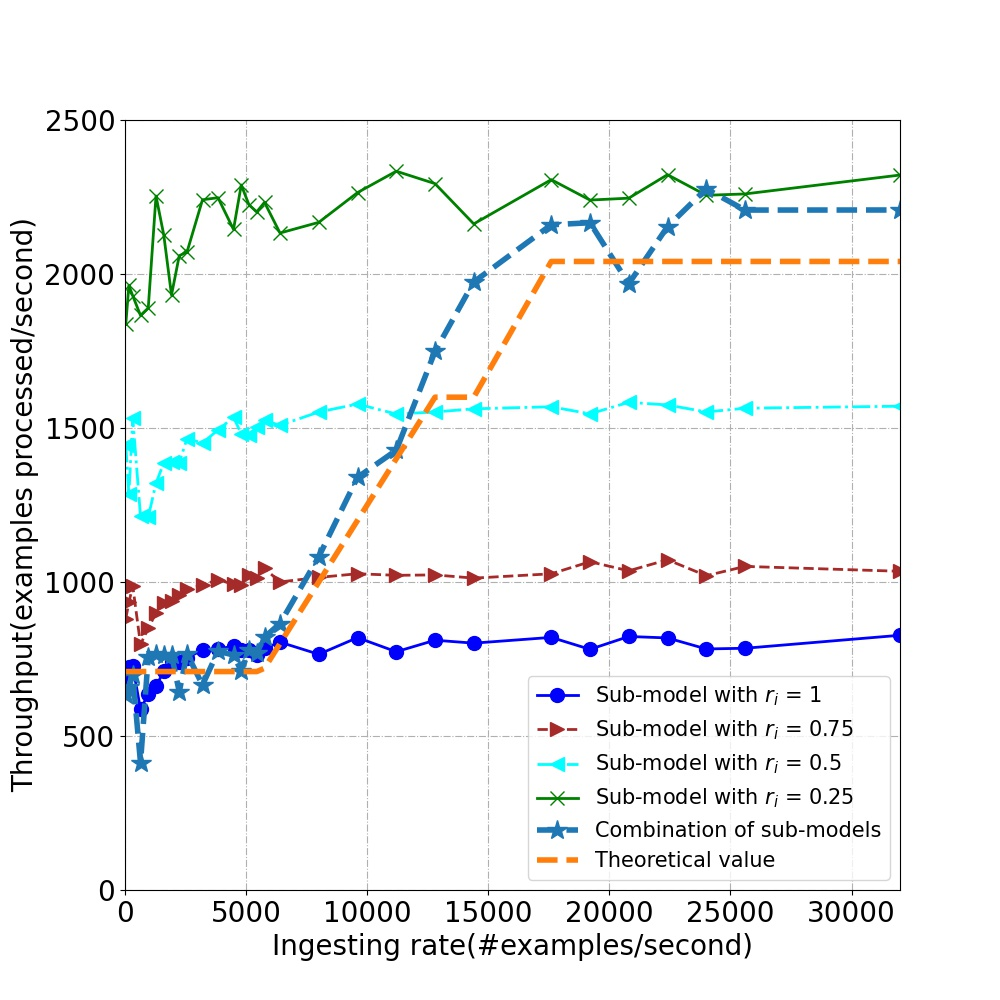
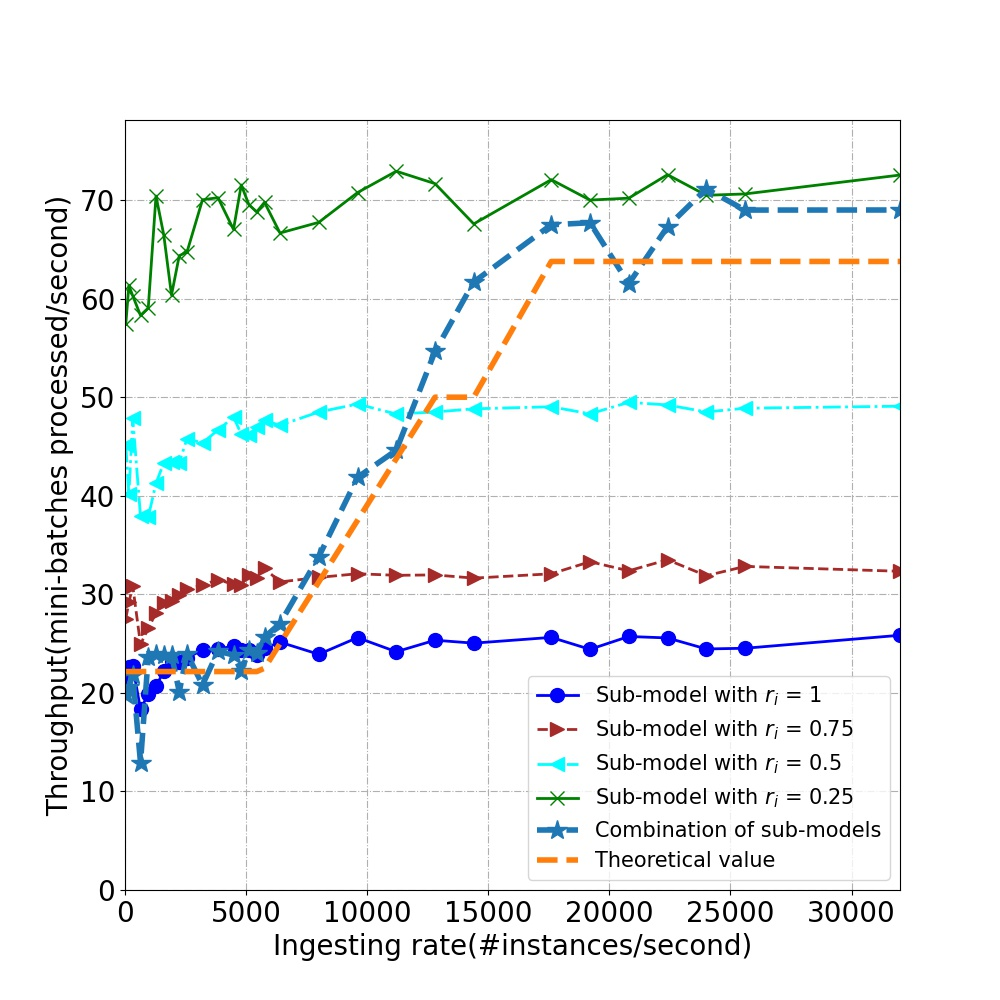
update col num

Changed region(s): [[0.0, 0.186, 0.124, 0.806], [0.279, 0.93, 0.744, 0.961], [0.062, 0.093, 0.124, 0.124]]

diff --git a/singa_easy/modules/mod_modelslicing/experiments/real_experiments/batchsize32_warmup/throughput_plot.py b/singa_easy/modules/mod_modelslicing/experiments/real_experiments/batchsize32_warmup/throughput_plot.py
@@ -53,7 +53,6 @@ def drawBasic(tlist, x, slicerate):
      return y, label, pots
 
 
-
 x = [1, 5, 10, 20, 30, 40, 50, 60, 70, 80, 100, 120, 140, 150, 160, 170, 180, 200, 250, 300, 350, 400, 450, 550, 600, 650, 700, 750, 800, 1000]
 x = [ele*32 for ele in x]
 x = numpy.array(x)
@@ -63,13 +62,14 @@ print(y)
 
 fig=plt.figure(figsize=(10, 10))
 ax=fig.add_subplot(111)
-ax.axis([0, 1000*32, 0, 2500])
+ax.axis([0, 1000*32, 0, 2500/32])
 
 line_sym = ["-", "--", "-.", "-"]
 pot_sym = ["o", ">", "<", "x"]
 colors = ['blue', 'brown', 'aqua', 'green']
 
 for i in range(len(y)):
+     y[i] = [ele/32 for ele in y[i]]
      ax.plot(x, y[i], line_sym[i], marker=pot_sym[i], ms=10, label=label[i], linewidth=2, color=colors[i])
 
 
@@ -87,15 +87,17 @@ y_idealy = [709.2198581560284, 709.2198581560284, 709.2198581560284, 709.2198581
 # y_schef[20] += 100
 
 y_real_experiment = [633.0488366910487, 660.2020663739888, 696.9070444809888, 413.58714568077846, 757.9607054411246, 767.1975325229297, 763.8781468089422, 763.4920521873797, 643.6349107329457, 767.1107790111308, 665.6662151396764, 774.8611271250163, 763.3099205024894, 710.7785972349673, 779.1044616704534, 770.164707197363, 820.9722173161322, 865.2086862684831, 1081.8927113194084, 1339.7172773808425, 1427.7056211403021, 1748.4424234241985, 1974.104147038498, 2159.880743685082, 2166.387515185857, 1968.3063635706058, 2153.703896139617, 2276.373651213354, 2207.590246106145, 2207.8315041726605]
+y_real_experiment = [ele/32 for ele in y_real_experiment]
+y_idealy = [ele/32 for ele in y_idealy]
 ax.plot(x, y_real_experiment, "--", marker='*', ms=15, label="Combination of sub-models", linewidth=4)
-ax.plot(x, y_idealy, "--",label="Theoretical value", linewidth=4)
+ax.plot(x, y_idealy, "--", label="Theoretical value", linewidth=4)
 
 
 plt.legend(fontsize=15)
 plt.xticks(fontsize=20)
 plt.yticks(fontsize=20)
-ax.set_xlabel('Ingesting rate(#examples/second)', fontsize=20)
-ax.set_ylabel('Throughput(examples processed/second)', fontsize=20)
+ax.set_xlabel('Ingesting rate(#instances/second)', fontsize=20)
+ax.set_ylabel('Throughput(mini-batches processed/second)', fontsize=20)
 plt.grid(linestyle='-.')
 plt.savefig('./throughput.jpg')
 plt.show()

diff --git a/singa_easy/modules/mod_modelslicing/experiments/real_experiments/batchsize32_warmup/submodel_propertion.py b/singa_easy/modules/mod_modelslicing/experiments/real_experiments/batchsize32_warmup/submodel_propertion.py
@@ -7,8 +7,8 @@ scheduler_map = \
      1280: [1280, 0, 0, 0], 1600: [1600, 0, 0, 0], 1920: [1920, 0, 0, 0], 2240: [2240, 0, 0, 0], 2560: [2560, 0, 0, 0],
      3200: [3200, 0, 0, 0], 3840: [3840, 0, 0, 0], 4480: [4480, 0, 0, 0], 4800: [4800, 0, 0, 0], 5120: [5120, 0, 0, 0],
      5440: [5440, 0, 0, 0], 5760: [5586, 0, 174, 0], 6400: [4937, 0, 1463, 0], 8000: [3314, 0, 4686, 0],
-     9600: [1691, 0, 7909, 0], 11200: [68, 1, 11131, 0], 12800: [0, 0, 7854, 4946], 17600: [0, 0, 1, 16325],
-     19200: [0, 0, 1, 16325]}
+     9600: [1691, 0, 7909, 0], 11200: [68, 1, 11131, 0], 12800: [0, 0, 7854, 4946], 17600: [0, 0, 1, 17600],
+     19200: [0, 0, 1, 19200]}
 
 
 name_list = list(scheduler_map.keys()).sort()
@@ -17,7 +17,7 @@ name_list = list(scheduler_map.keys()).sort()
 
 fig = plt.figure(figsize=(11, 10))
 ax = fig.add_subplot(111)
-ax.axis([0, len(list(scheduler_map.keys())), 0, 17500])
+ax.axis([0, len(list(scheduler_map.keys())), 0, 620])
 
 y025 = []
 y5 = []
@@ -25,10 +25,10 @@ y75 = []
 y100 = []
 
 for key in scheduler_map:
-    y025.append(scheduler_map[key][3])
-    y5.append(scheduler_map[key][2])
-    y75.append(scheduler_map[key][1])
-    y100.append(scheduler_map[key][0])
+    y025.append(scheduler_map[key][3]/32)
+    y5.append(scheduler_map[key][2]/32)
+    y75.append(scheduler_map[key][1]/32)
+    y100.append(scheduler_map[key][0]/32)
 
 
 colors = ['lightskyblue', 'brown', 'aqua', 'plum']
@@ -42,8 +42,8 @@ plt.legend(fontsize=20)
 plt.xticks(fontsize=20)
 plt.yticks(fontsize=20)
 
-ax.set_xlabel('Ingesting rate(#examples/second)', fontsize=20)
-ax.set_ylabel('#Examples', fontsize=20)
+ax.set_xlabel('Ingesting rate(#instances/second)', fontsize=20)
+ax.set_ylabel('# Mini-batches', fontsize=20)
 
 plt.grid(linestyle='-.')
 plt.savefig('./sub_model_proportion.jpg')

diff --git a/singa_easy/modules/mod_modelslicing/experiments/real_experiments/batchsize32_warmup/average_time_batch.py b/singa_easy/modules/mod_modelslicing/experiments/real_experiments/batchsize32_warmup/average_time_batch.py
@@ -45,7 +45,7 @@ def drawBasic(tlist, x, slicerate):
 
      for k in range(len(tlist)):
 
-          label.append('sub-model with $r_i$ = ' + str(slicerate[k]) + ", $t_i=$" + str(tlist[k]) + "$s$")
+          label.append('Sub-model with $r_i$ = ' + str(slicerate[k]))
 
           tmp = []
           for i in range(len(x)):
@@ -65,7 +65,7 @@ y, label, pots = drawBasic([0.0126, 0.0071, 0.00315, 0.00079], x, [1, 0.75, 0.5,
 
 fig=plt.figure(figsize=(10, 10))
 ax=fig.add_subplot(111)
-ax.axis([0, 800*32, 0, 55])
+ax.axis([0, 1000*32, 10, 55])
 
 
 line_sym = ["-", "--", "-.", "-"]
@@ -80,8 +80,8 @@ for i in range(len(y)):
 plt.legend(fontsize=15)
 plt.xticks(fontsize=20)
 plt.yticks(fontsize=20)
-ax.set_xlabel('Ingesting rate(#examples/second)', fontsize=20)
-ax.set_ylabel('ProcessTimeOfABatch(millisecond)', fontsize=20)
+ax.set_xlabel('Ingesting rate(#instances/second)', fontsize=20)
+ax.set_ylabel('Inference time per mini-batch(millisecond)', fontsize=20)
 plt.grid(linestyle='-.')
 plt.savefig('./average_time_batch.jpg')
 plt.show()

diff --git a/singa_easy/modules/mod_modelslicing/experiments/scheduler.py b/singa_easy/modules/mod_modelslicing/experiments/scheduler.py
@@ -162,7 +162,7 @@ if __name__ == '__main__':
     # testAny([0.95, 0.8, 0.75], [4, 2, 1])
     # 30 items
     N_list = [1, 5, 10, 20, 30, 40, 50, 60, 70, 80, 100, 120, 140, 150, 160, 170, 180, 200, 250, 300, 350, 400, 450, 550, 600, 650, 700, 750, 800, 1000]
-    N_list = [ele for ele in N_list]
+    # N_list = [200, 250, 300, 350, 400, 450,]
 
     effective_speed_list = []
     throughput_list = []
@@ -185,7 +185,7 @@ if __name__ == '__main__':
             res, combs = testAny(ps,
                                  times,
                                  N=N,
-                                 D=8)
+                                 D=0.1)
             effecAccuracy.append(res)
             ndict[N] = [int(ele) for ele in combs.tolist()]
             print("When N is", N, " testAny's result:", res, combs)
@@ -232,6 +232,6 @@ if __name__ == '__main__':
     print(used_N_list)
     print(throughput_list)
     print(ndict)
-    # print(delay_list)
-    # print(delay_list)
+    print(delay_list)
+    print(delay_list)
 

diff --git a/singa_easy/modules/mod_modelslicing/experiments/real_experiments/batchsize32_warmup/effitive_accuracy_plot.py b/singa_easy/modules/mod_modelslicing/experiments/real_experiments/batchsize32_warmup/effitive_accuracy_plot.py
@@ -59,7 +59,7 @@ ax.plot(x, ySch, "--", marker='*', ms=12, label="Combination of sub-models", lin
 plt.legend(fontsize=15)
 plt.xticks(fontsize=20)
 plt.yticks(fontsize=20)
-ax.set_xlabel('$W_{exp}=N/D$ (# examples / deadline constraint)', fontsize=20)
+ax.set_xlabel('$W_{exp}=N/D$ (# instances / deadline constraint)', fontsize=20)
 ax.set_ylabel('Effective accuracy %', fontsize=20)
 plt.grid(linestyle='-.')
 plt.savefig('./effective accuracy.jpg')

diff --git a/singa_easy/modules/mod_modelslicing/experiments/real_experiments/batchsize32_warmup/latency.py b/singa_easy/modules/mod_modelslicing/experiments/real_experiments/batchsize32_warmup/latency.py
@@ -89,7 +89,7 @@ plt.hlines(8.1, 0, 85000, label="Deadline constrain=8s", linewidth=4, color="red
 plt.legend(fontsize=15)
 plt.xticks(fontsize=20)
 plt.yticks(fontsize=20)
-ax.set_xlabel('Ingesting rate(#examples/second)', fontsize=20)
+ax.set_xlabel('Ingesting rate(#instances/second)', fontsize=20)
 ax.set_ylabel('Latency(second)', fontsize=20)
 plt.grid(linestyle='-.')
 plt.savefig('./latency.jpg')

diff --git a/singa_easy/modules/mod_modelslicing/experiments/ideal_effitive_accuracy_plot.py b/singa_easy/modules/mod_modelslicing/experiments/ideal_effitive_accuracy_plot.py
@@ -40,7 +40,7 @@ y4 = interval01 + \
 
 plt.xlim((0, 1.2))
 plt.ylim((0, 1))
-plt.xlabel('$W_{exp}=N/D$ (# examples / deadline constraint)', fontsize=15)
+plt.xlabel('$W_{exp}=N/D$ (# instances / deadline constraint)', fontsize=15)
 plt.ylabel('Effective accuracy %', fontsize=15)
 
 
